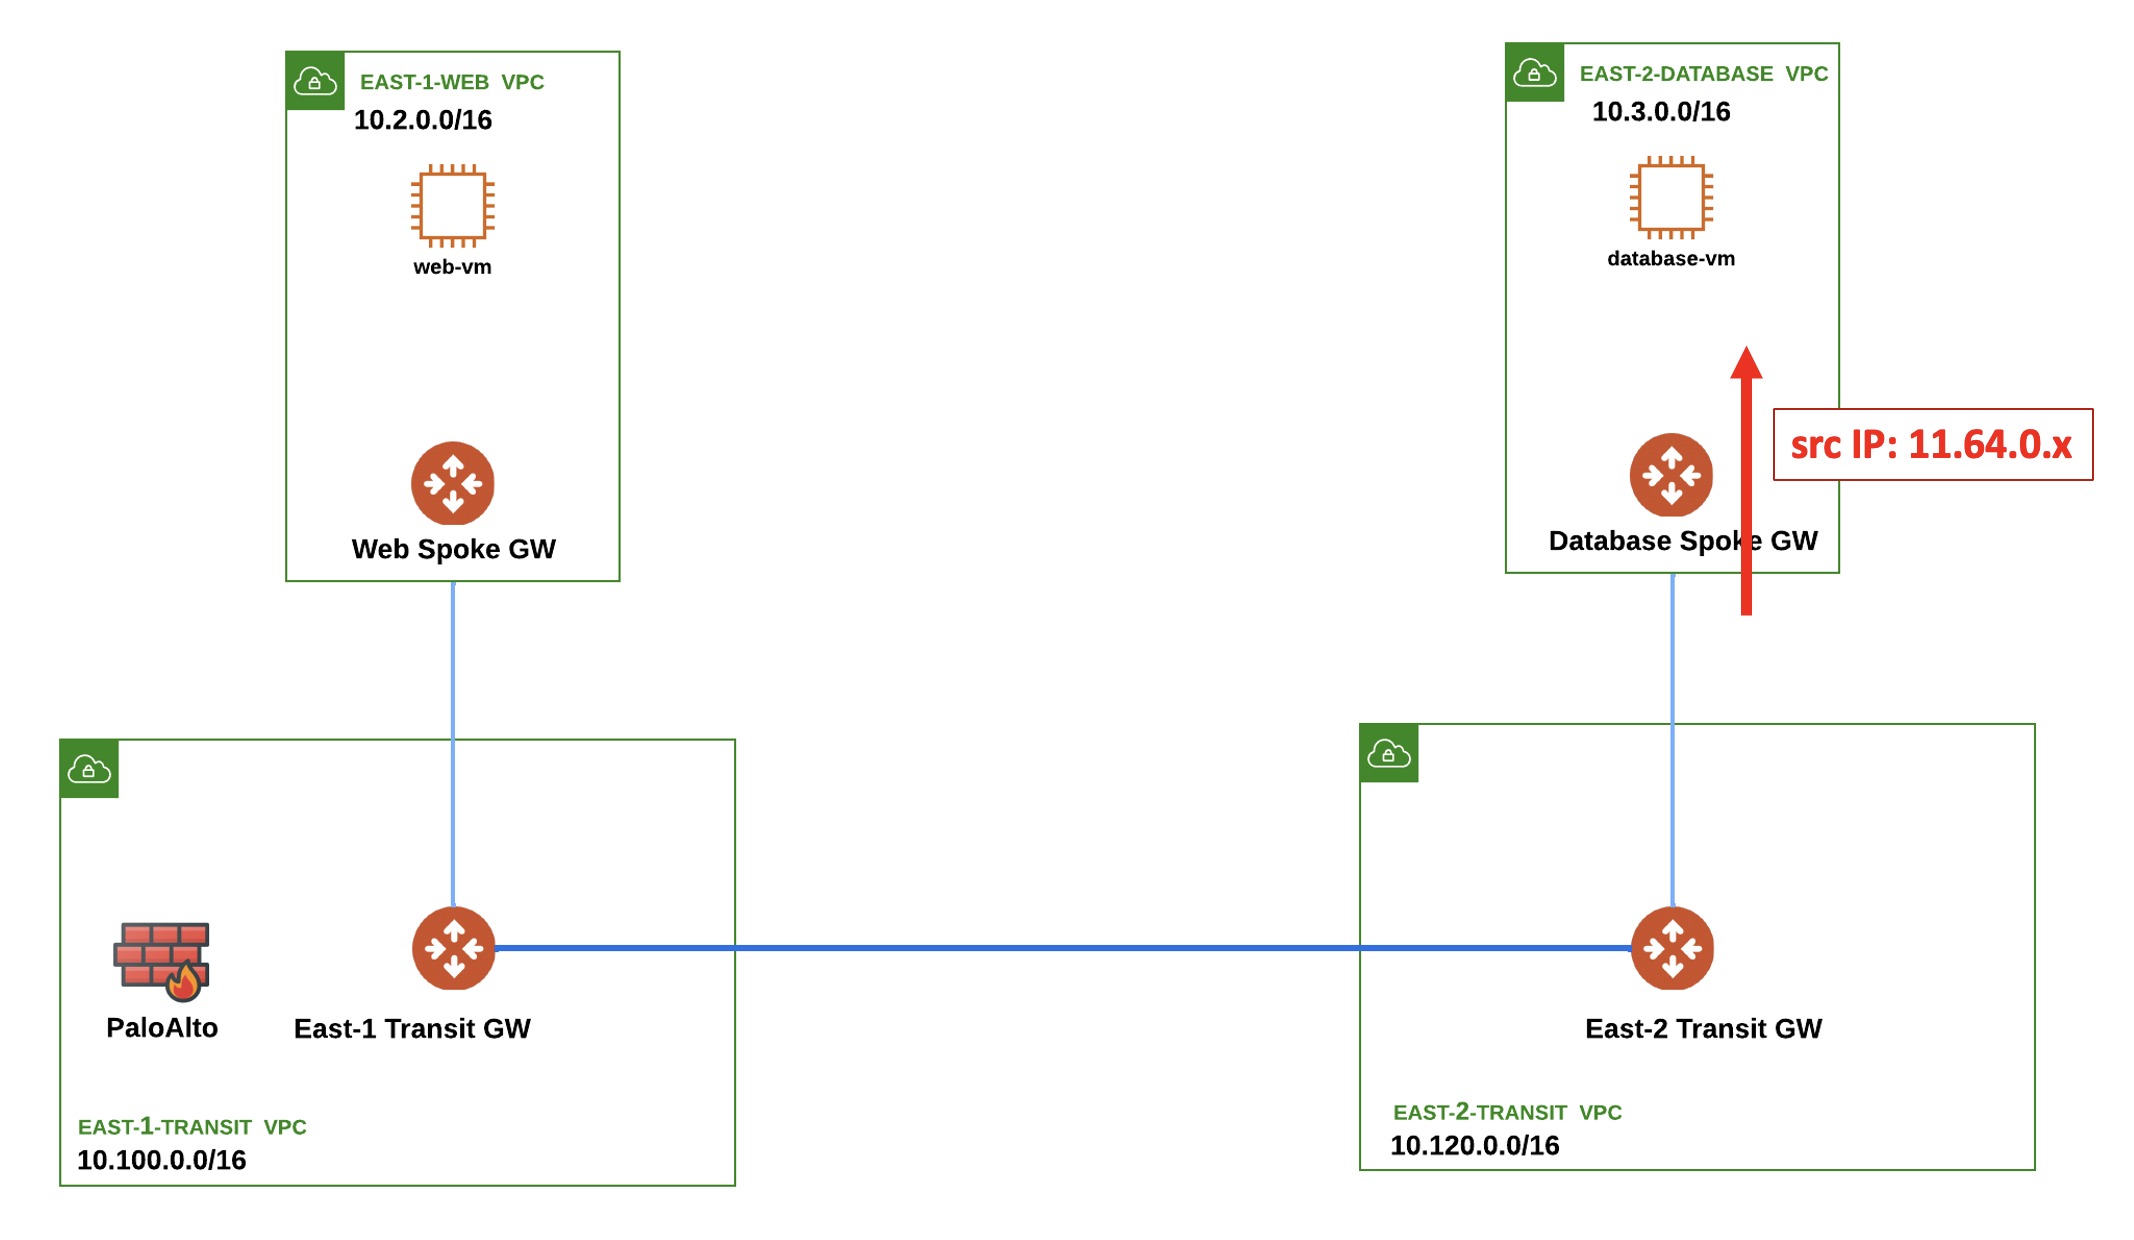
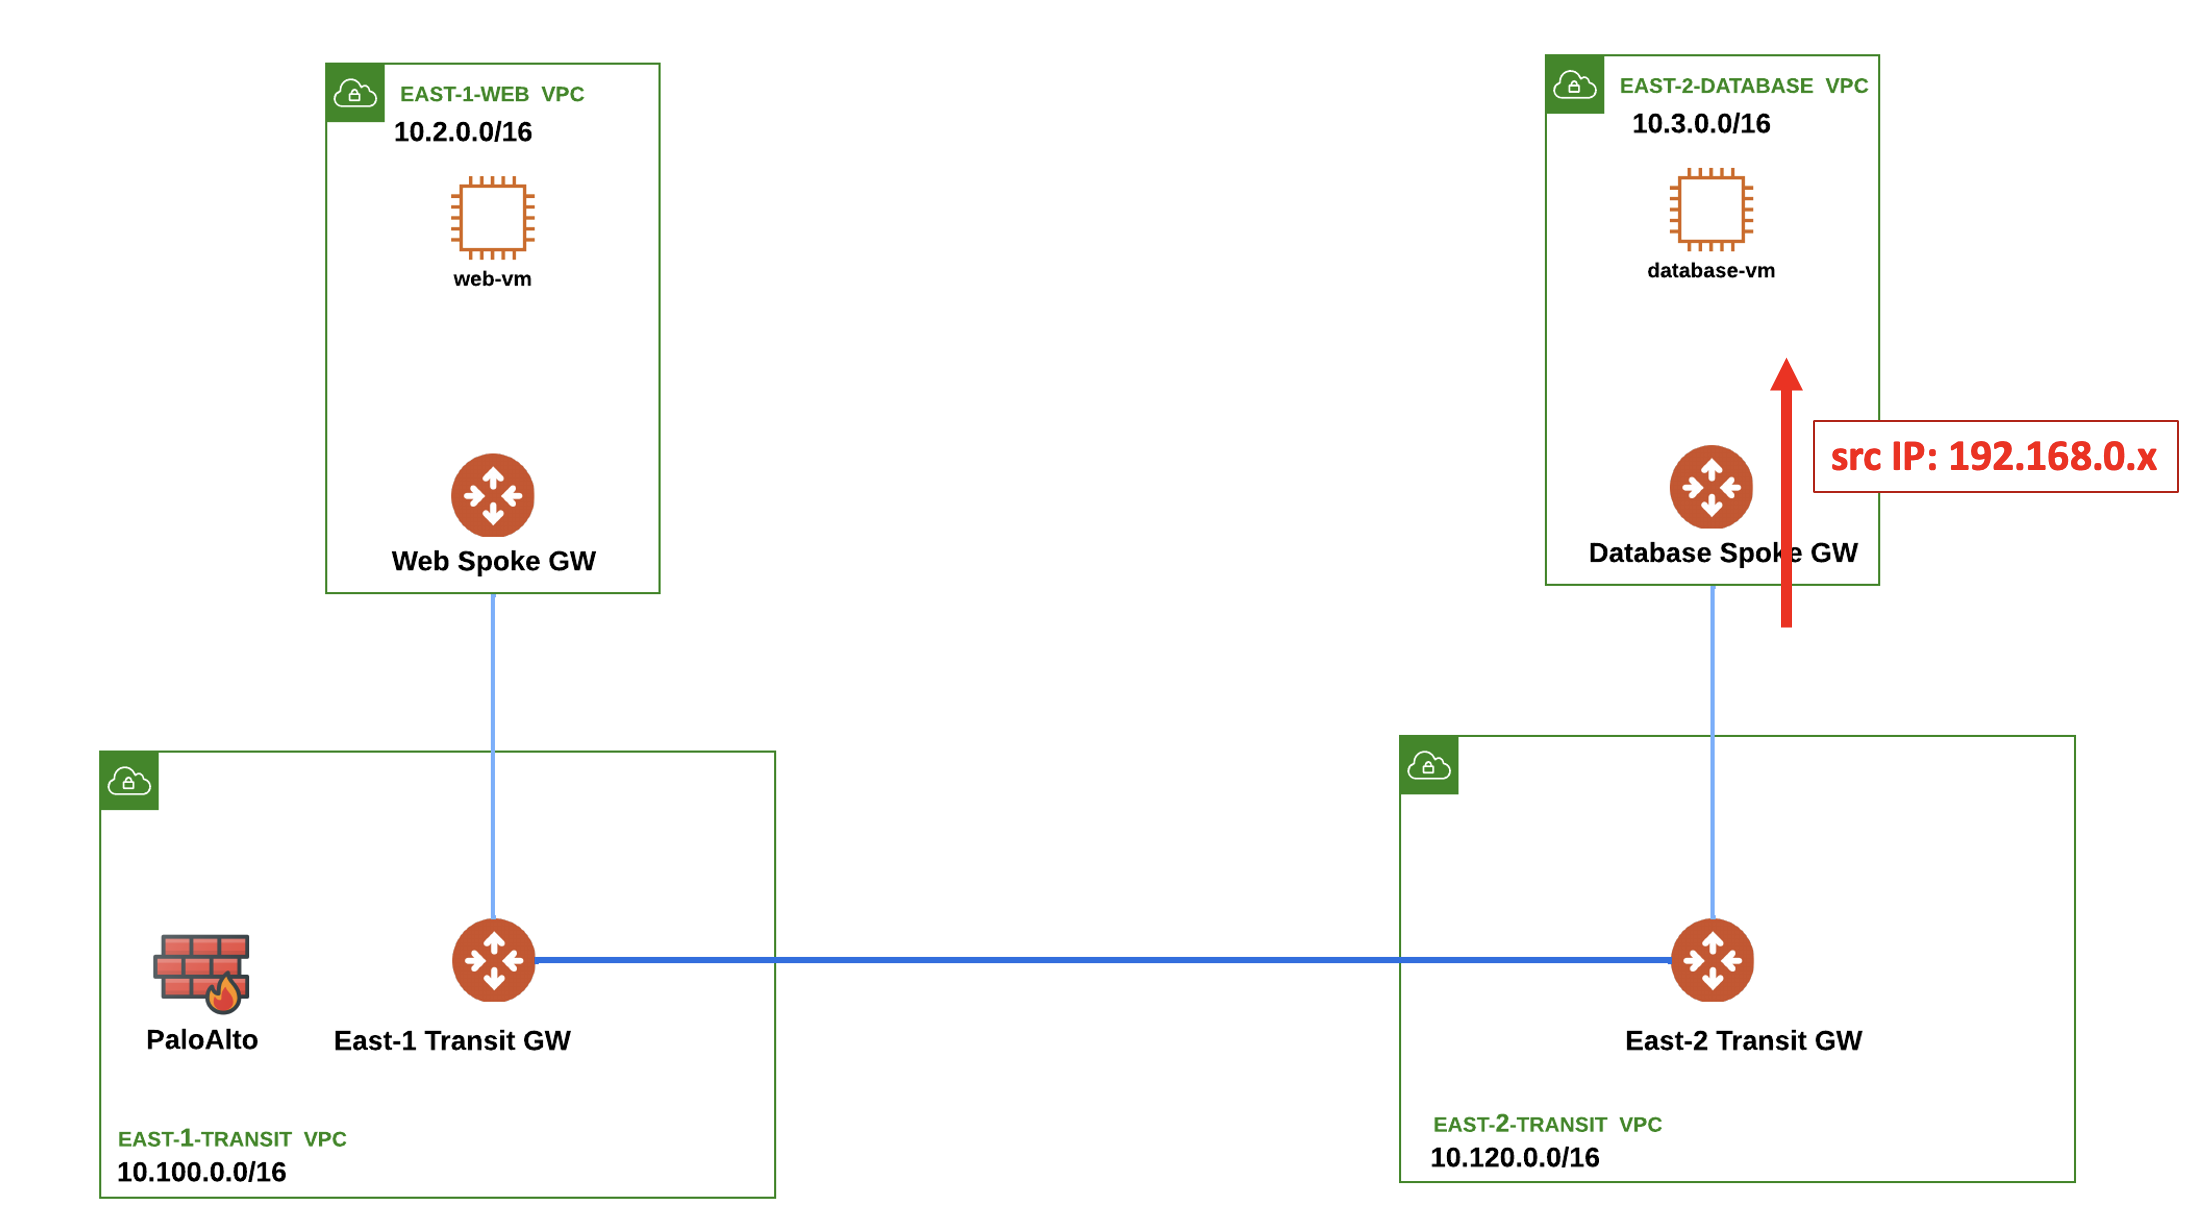
the last update of the week (bridge lab guides)

diff --git a/ace_bridge/docs/Challenge4.md b/ace_bridge/docs/Challenge4.md
@@ -2,14 +2,14 @@
 
 ## Scenario
 
-After resolving the challenge#3, the Database VM administrator mentioned that the Database is receiving requests from an IP range in the **11.64.0.0/24** space.
+After resolving the challenge #3, the Database VM administrator mentioned that the Database is receiving requests from an IP that belongs to the **192.168.0.0/16** space, instead of 10.2.0.0/16...
 
 ```{figure} images/lab4-drawing.png
 ---
 height: 400px
 align: center
 ---
-Network Isolation
+Unknown CIDR
 ```
 
 <details>
